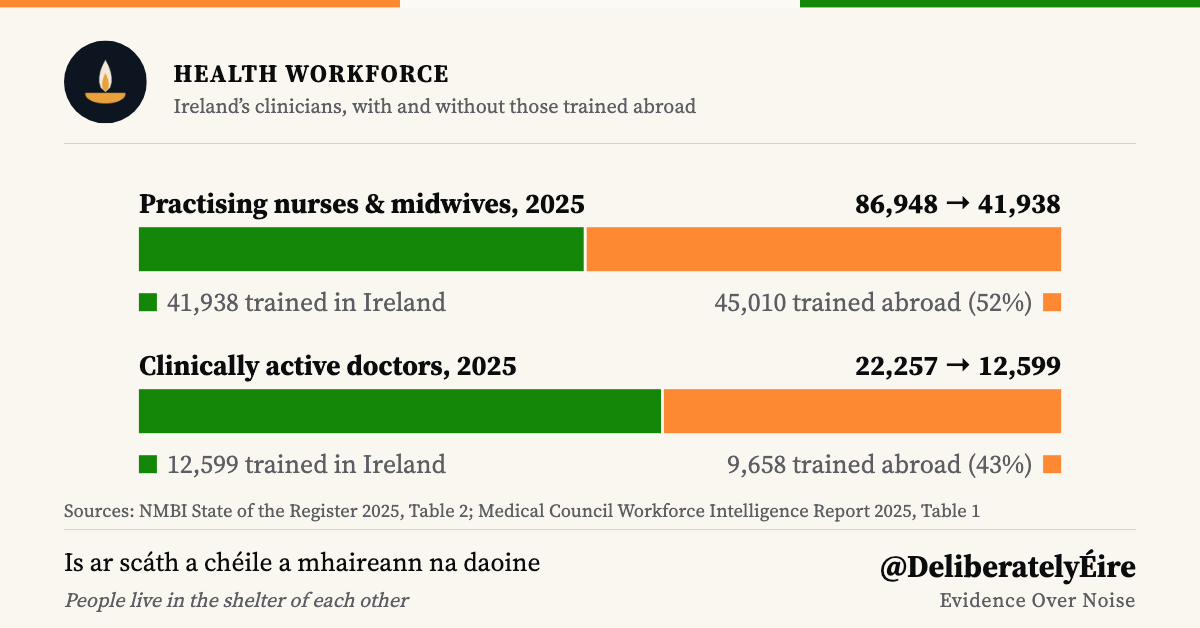
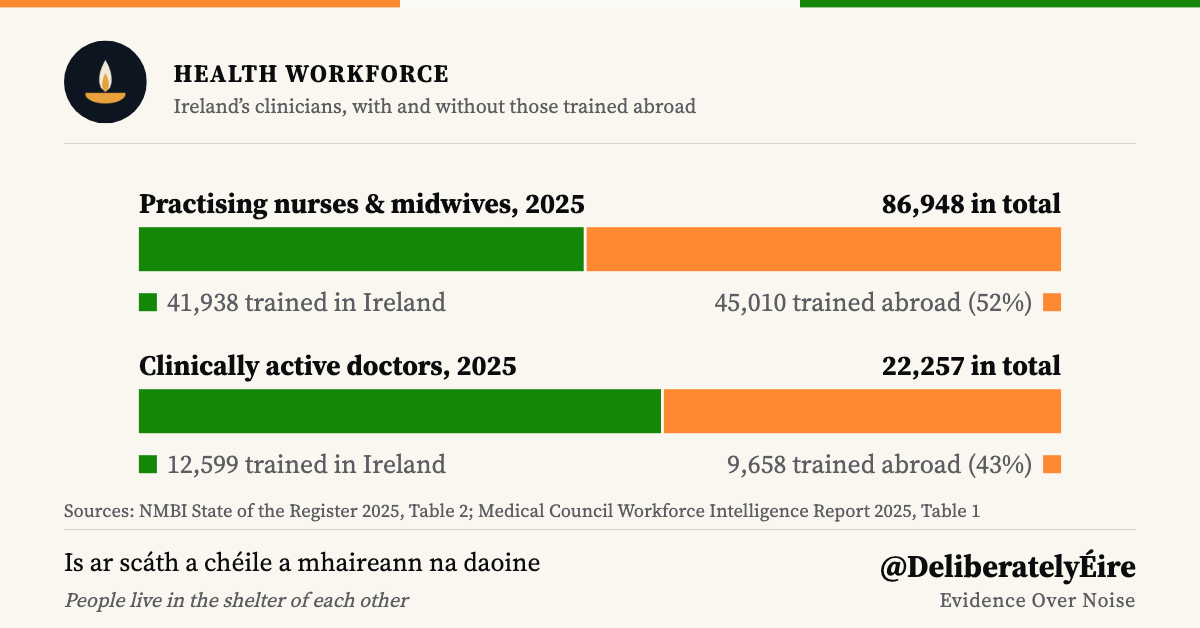
Label the cover totals instead of using an arrow
'86,948 -> 41,938' read ambiguously; the cover now shows '86,948 in
total', with the bar captions giving the Irish-trained and trained-abroad
split.

Changed region(s): [[0.7092, 0.5446, 0.8942, 0.6051], [0.7092, 0.3025, 0.8942, 0.3631]]

diff --git a/scripts/generate_medical_visuals.py b/scripts/generate_medical_visuals.py
@@ -86,7 +86,7 @@ def cover(x0, y0, x1, y1):
     for i, (label, irish, abroad) in enumerate(ROWS):
         total = irish + abroad
         y = top + i * (row_h + row_gap)
-        change = f"{total:,} → {irish:,}"
+        change = f"{total:,} in total"
         fits(label, 28, True, width - fits(change, 28, True, width, "change") - 24, label)
         out.append(text(left, y + label_h, label, 28, 700, INK))
         out.append(text(right, y + label_h, change, 28, 700, INK, "end"))
